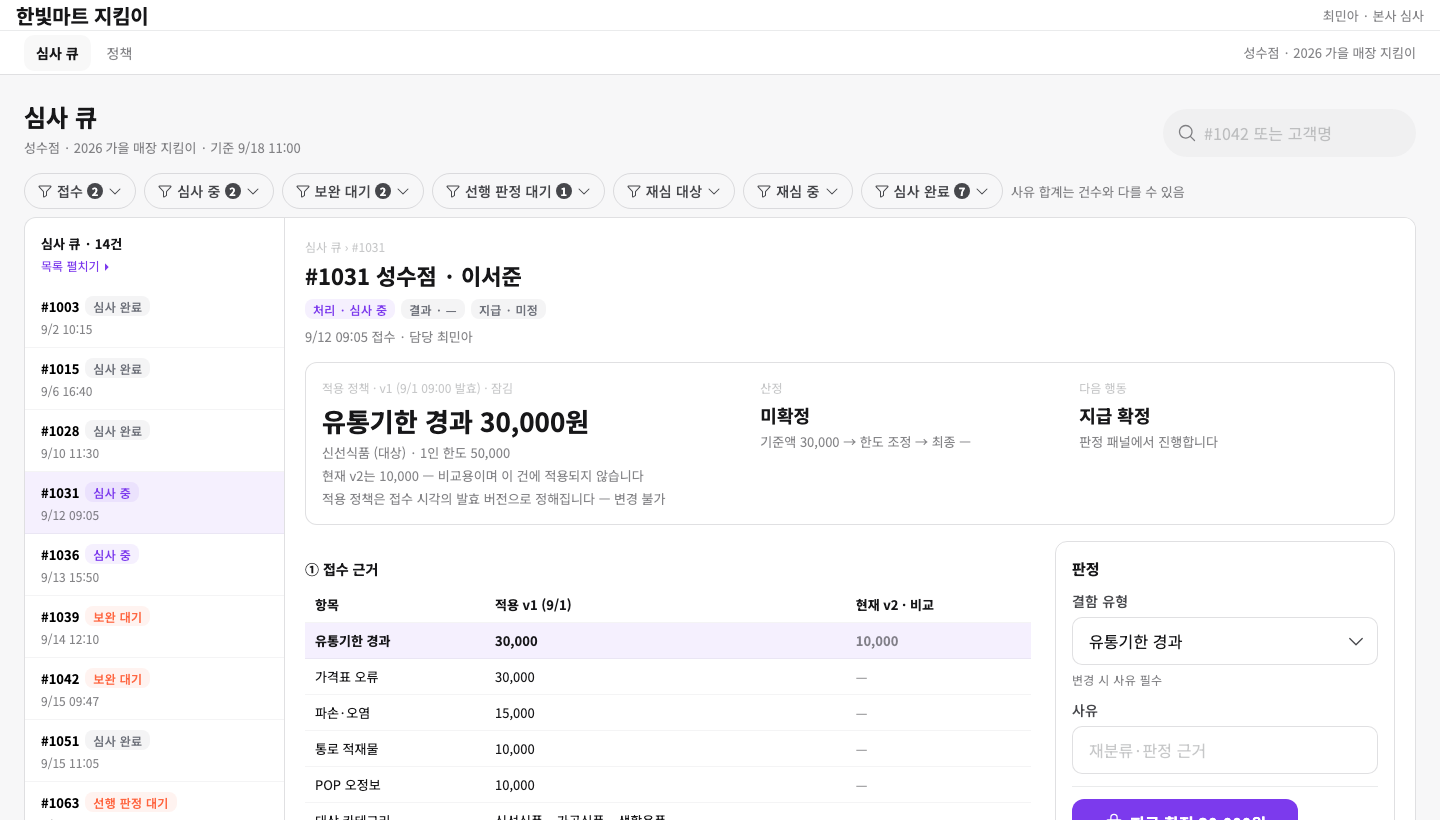
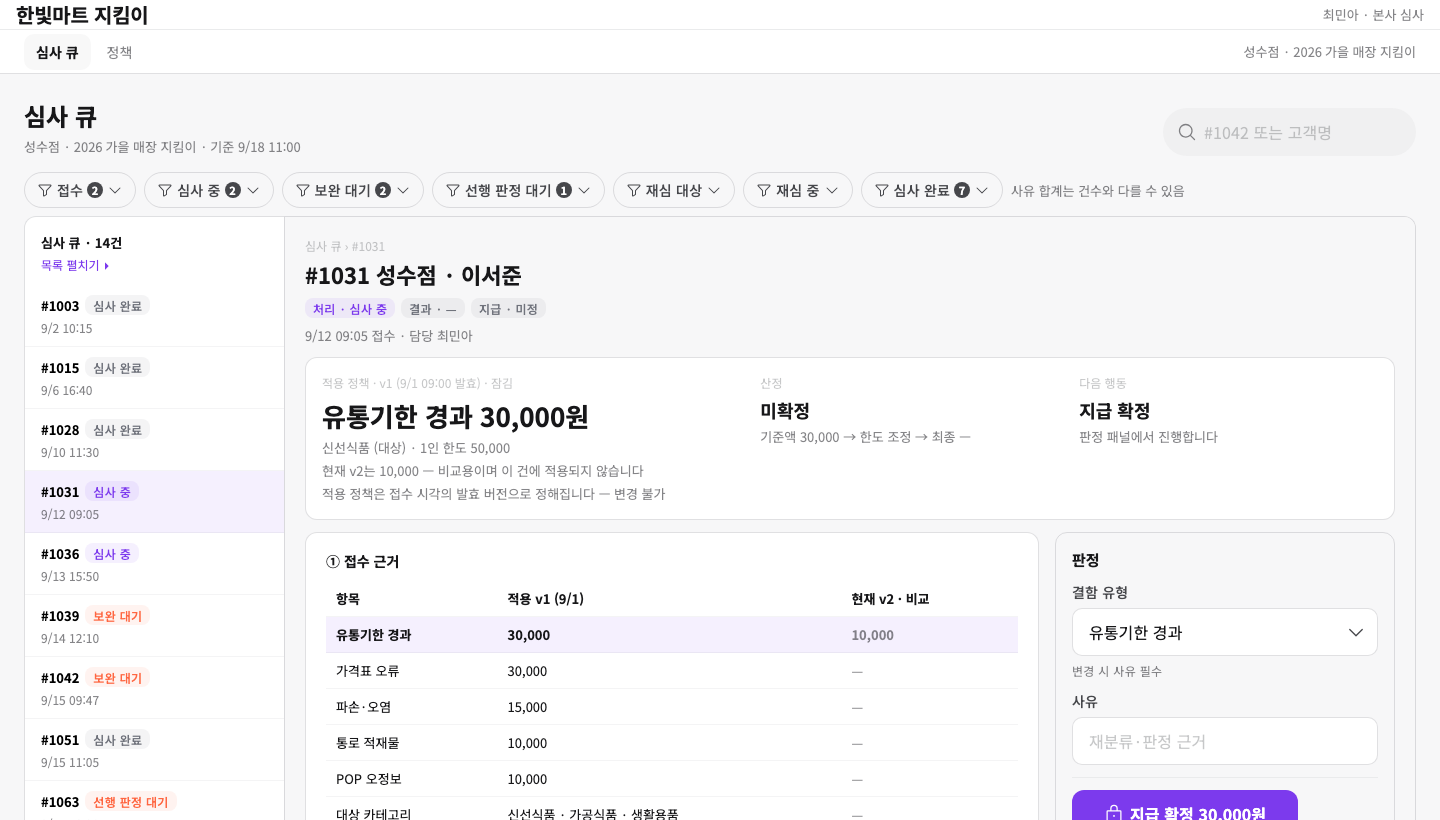
fix(app): 상세의 각 절을 카드로 분리
박스를 없앴더니 제목만으로 구분해야 해서 읽기 어려웠다. 미리보기
바탕을 한 단계 내리고 절마다 흰 카드에 테두리와 패딩을 준다. 판정
패널과 같은 층위라 본문과 행동이 나란히 읽힌다.

diff --git a/app/src/app.css b/app/src/app.css
@@ -26,7 +26,7 @@ main { padding: 24px; }
   border: 1px solid var(--iris-semantic-line-normal-normal); border-radius: var(--iris-radius-md); overflow: hidden; }
 .row-id { border: 0; background: none; padding: 0; cursor: pointer; color: var(--iris-semantic-primary-normal); font-weight: 600; }
 .row-id.on { text-decoration: underline; }
-.preview { background: var(--iris-semantic-background-normal-normal);
+.preview { background: var(--iris-semantic-background-normal-alternative);
   border: 1px solid var(--iris-semantic-line-normal-normal); border-radius: var(--iris-radius-md);
   padding: 20px; min-height: 620px; }
 .preview-empty { display: grid; place-content: center; gap: 6px; text-align: center; min-height: 560px; }
@@ -36,7 +36,7 @@ main { padding: 24px; }
 .badges { display: flex; gap: 6px; flex-wrap: wrap; }
 .meta { margin-top: 8px; font-size: 13px; color: var(--iris-semantic-label-alternative); }
 
-.summary { display: grid; grid-template-columns: 1.4fr 1fr 1fr; gap: 20px; margin: 16px 0;
+.summary { display: grid; grid-template-columns: 1.4fr 1fr 1fr; gap: 20px; margin: 12px 0 0;
   padding: 16px; border: 1px solid var(--iris-semantic-line-normal-normal); border-radius: var(--iris-radius-md);
   background: var(--iris-semantic-background-elevated-normal); }
 .overline { font-size: 12px; color: var(--iris-semantic-label-assistive); margin-bottom: 6px; }
@@ -44,8 +44,12 @@ main { padding: 24px; }
 .amount-sm { font-size: 18px; font-weight: 700; }
 .sub { font-size: 13px; color: var(--iris-semantic-label-alternative); margin-top: 4px; }
 
-.rail { margin: 18px 0; }
-.rail-label { margin: 0 0 8px; font-size: 14px; }
+.rail { margin: 0; padding: 18px 20px 20px;
+  background: var(--iris-semantic-background-normal-normal);
+  border: 1px solid var(--iris-semantic-line-normal-normal);
+  border-radius: var(--iris-radius-md); }
+.rail-label { margin: 0 0 10px; font-size: 14px; }
+.detail-main { display: grid; gap: 12px; }
 table.basis { width: 100%; border-collapse: collapse; font-size: 13px; }
 table.basis th, table.basis td { text-align: left; padding: 8px 10px; border-bottom: 1px solid var(--iris-semantic-line-normal-alternative); }
 table.basis tr.emph td { background: var(--iris-semantic-background-status-info); font-weight: 600; }
@@ -143,7 +147,7 @@ table.basis tr.emph td { background: var(--iris-semantic-background-status-info)
 .preview { border-radius: 0 var(--iris-radius-md) var(--iris-radius-md) 0; }
 
 /* 판정 패널을 본문 오른쪽 고정 열로 */
-.detail-body { display: grid; grid-template-columns: minmax(0, 1fr) 340px; gap: 24px; align-items: stretch; }
+.detail-body { display: grid; grid-template-columns: minmax(0, 1fr) 340px; gap: 16px; align-items: stretch; margin-top: 12px; }
 .detail-main { min-width: 0; }
 /* 패널이 스크롤을 따라오려면 감싸는 열이 행 높이만큼 늘어나 있어야 한다 */
 .panel-col { position: relative; }
